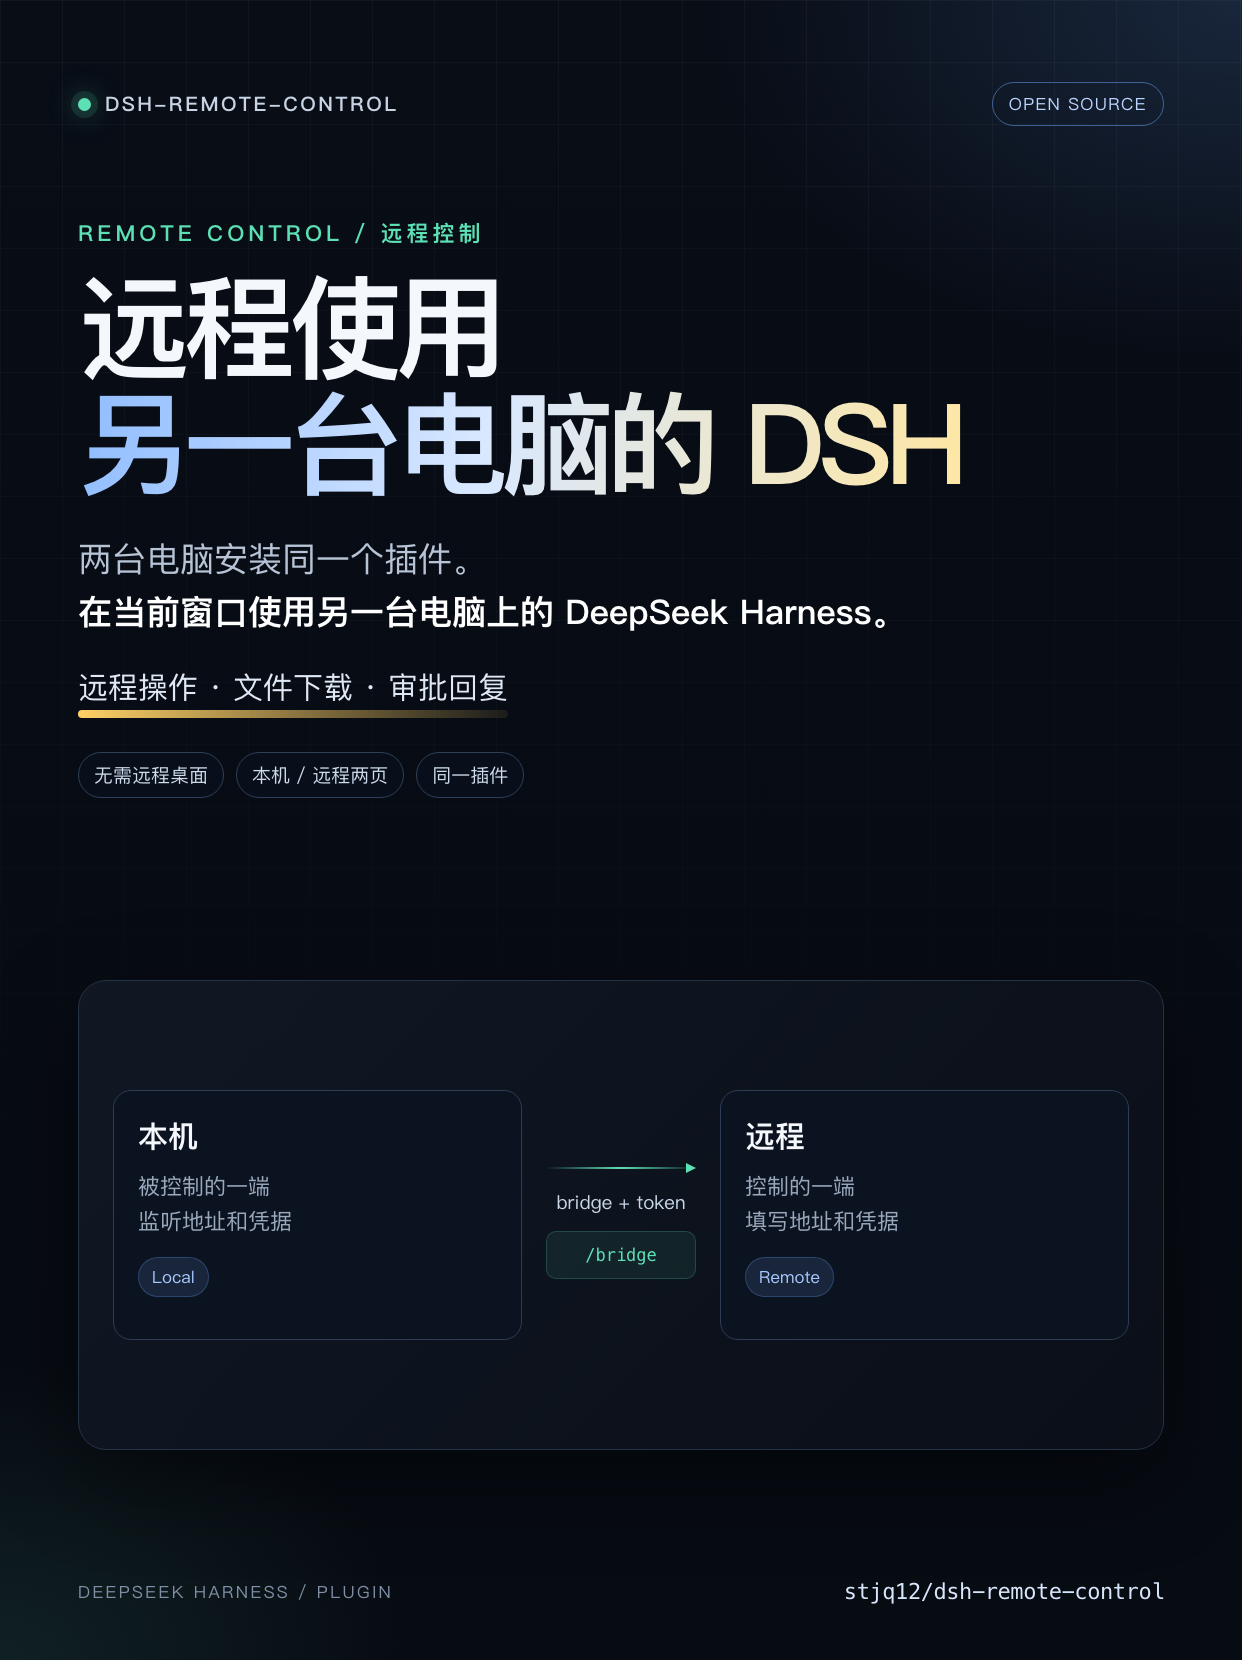
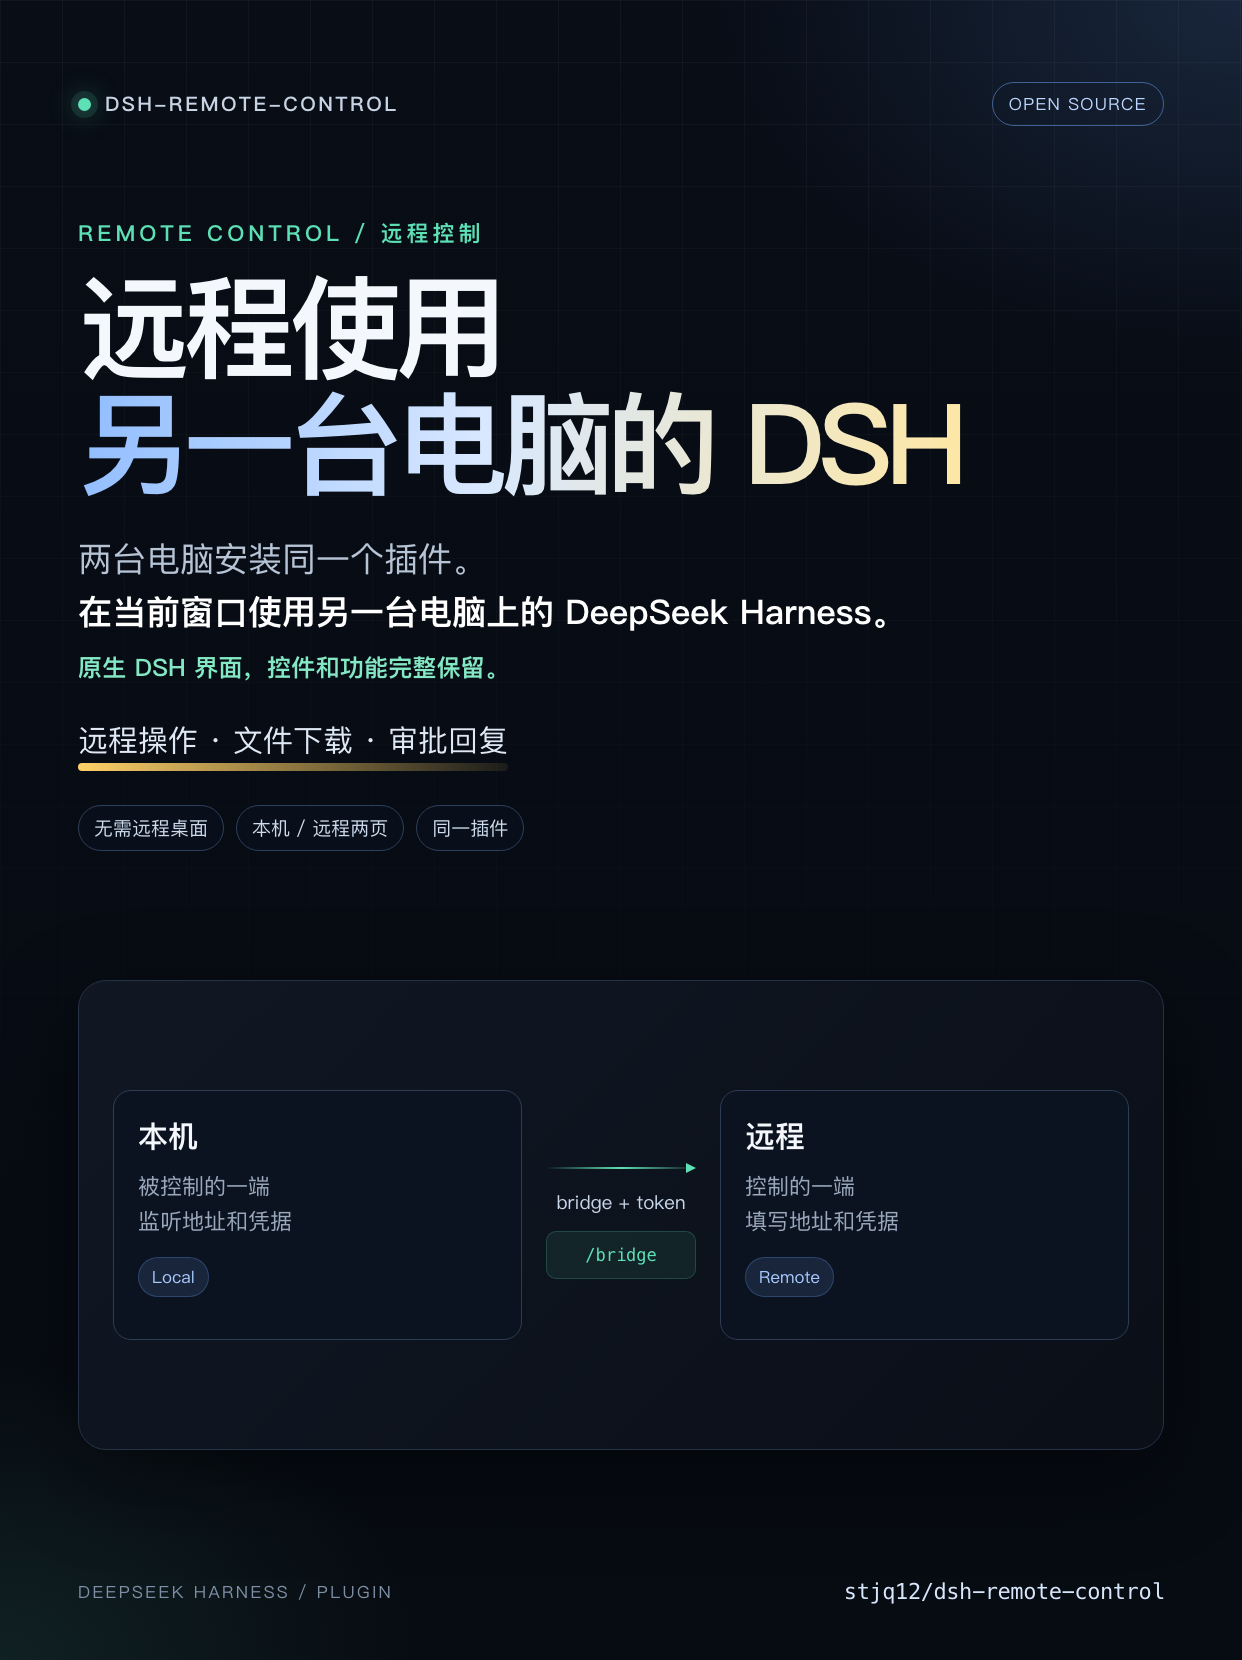
Renumber Xiaohongshu images after removing features page

Changed region(s): [[0.0612, 0.3994, 0.4283, 0.5223]]

diff --git a/assets/promo/xhs-copy.md b/assets/promo/xhs-copy.md
@@ -41,10 +41,9 @@
 ## 图片顺序
 
 1. `xiaohongshu-01-cover.png` — 封面
-2. `xiaohongshu-02-features.png` — 功能说明
-3. `xiaohongshu-03-ui.png` — 本机页 / 远程页截图
-4. `xiaohongshu-04-usage.png` — 使用步骤
-4-1. `xiaohongshu-04-1-install.png` — 插件页安装截图
+2. `xiaohongshu-02-ui.png` — 本机页 / 远程页截图
+3. `xiaohongshu-03-usage.png` — 使用步骤
+4. `xiaohongshu-04-install.png` — 插件页安装截图
 5. `xiaohongshu-05-security.png` — 使用注意事项
 
 ## 置顶评论
